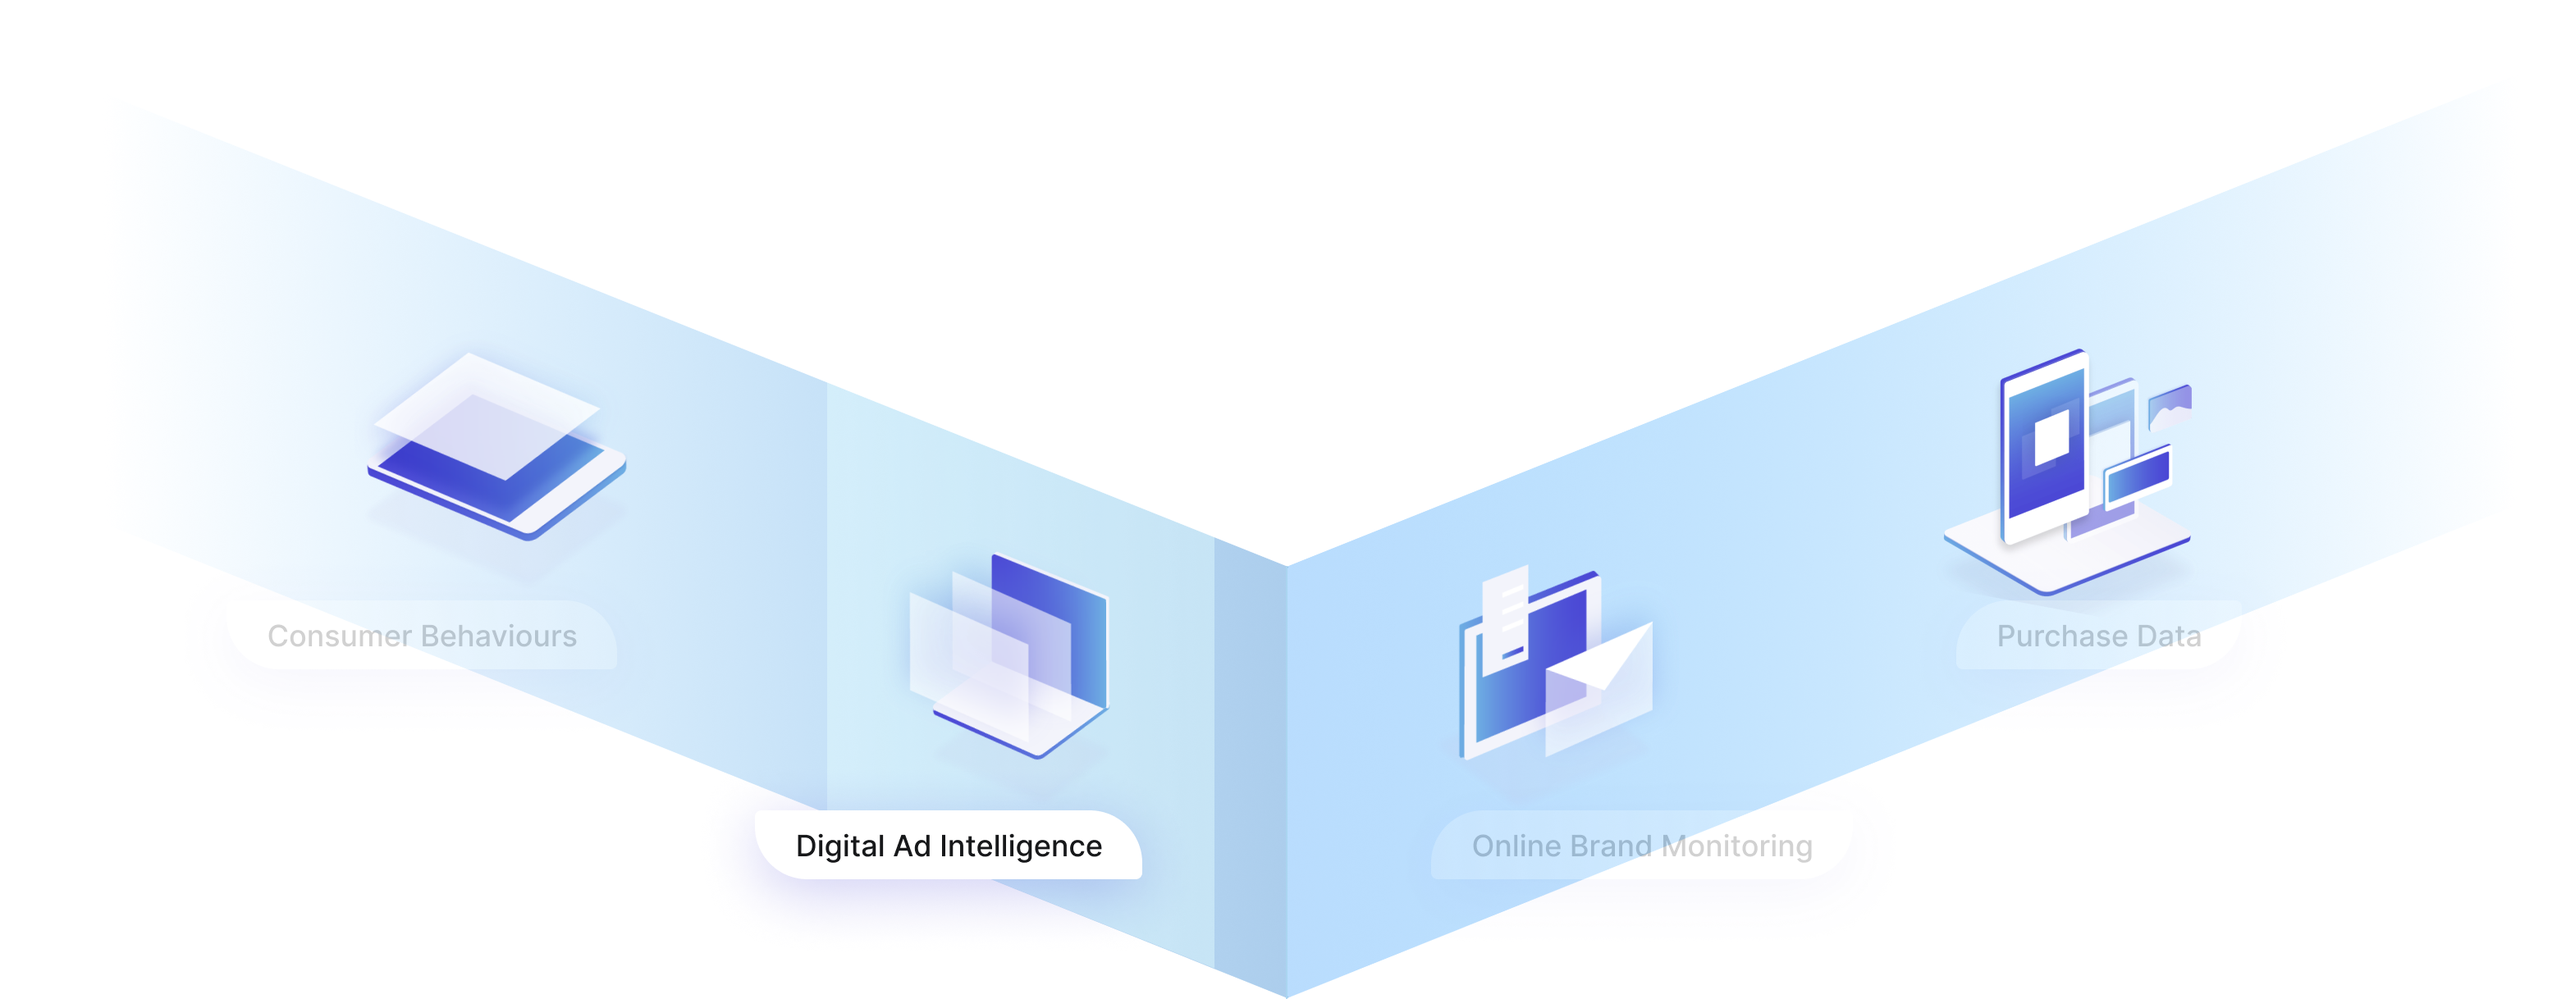
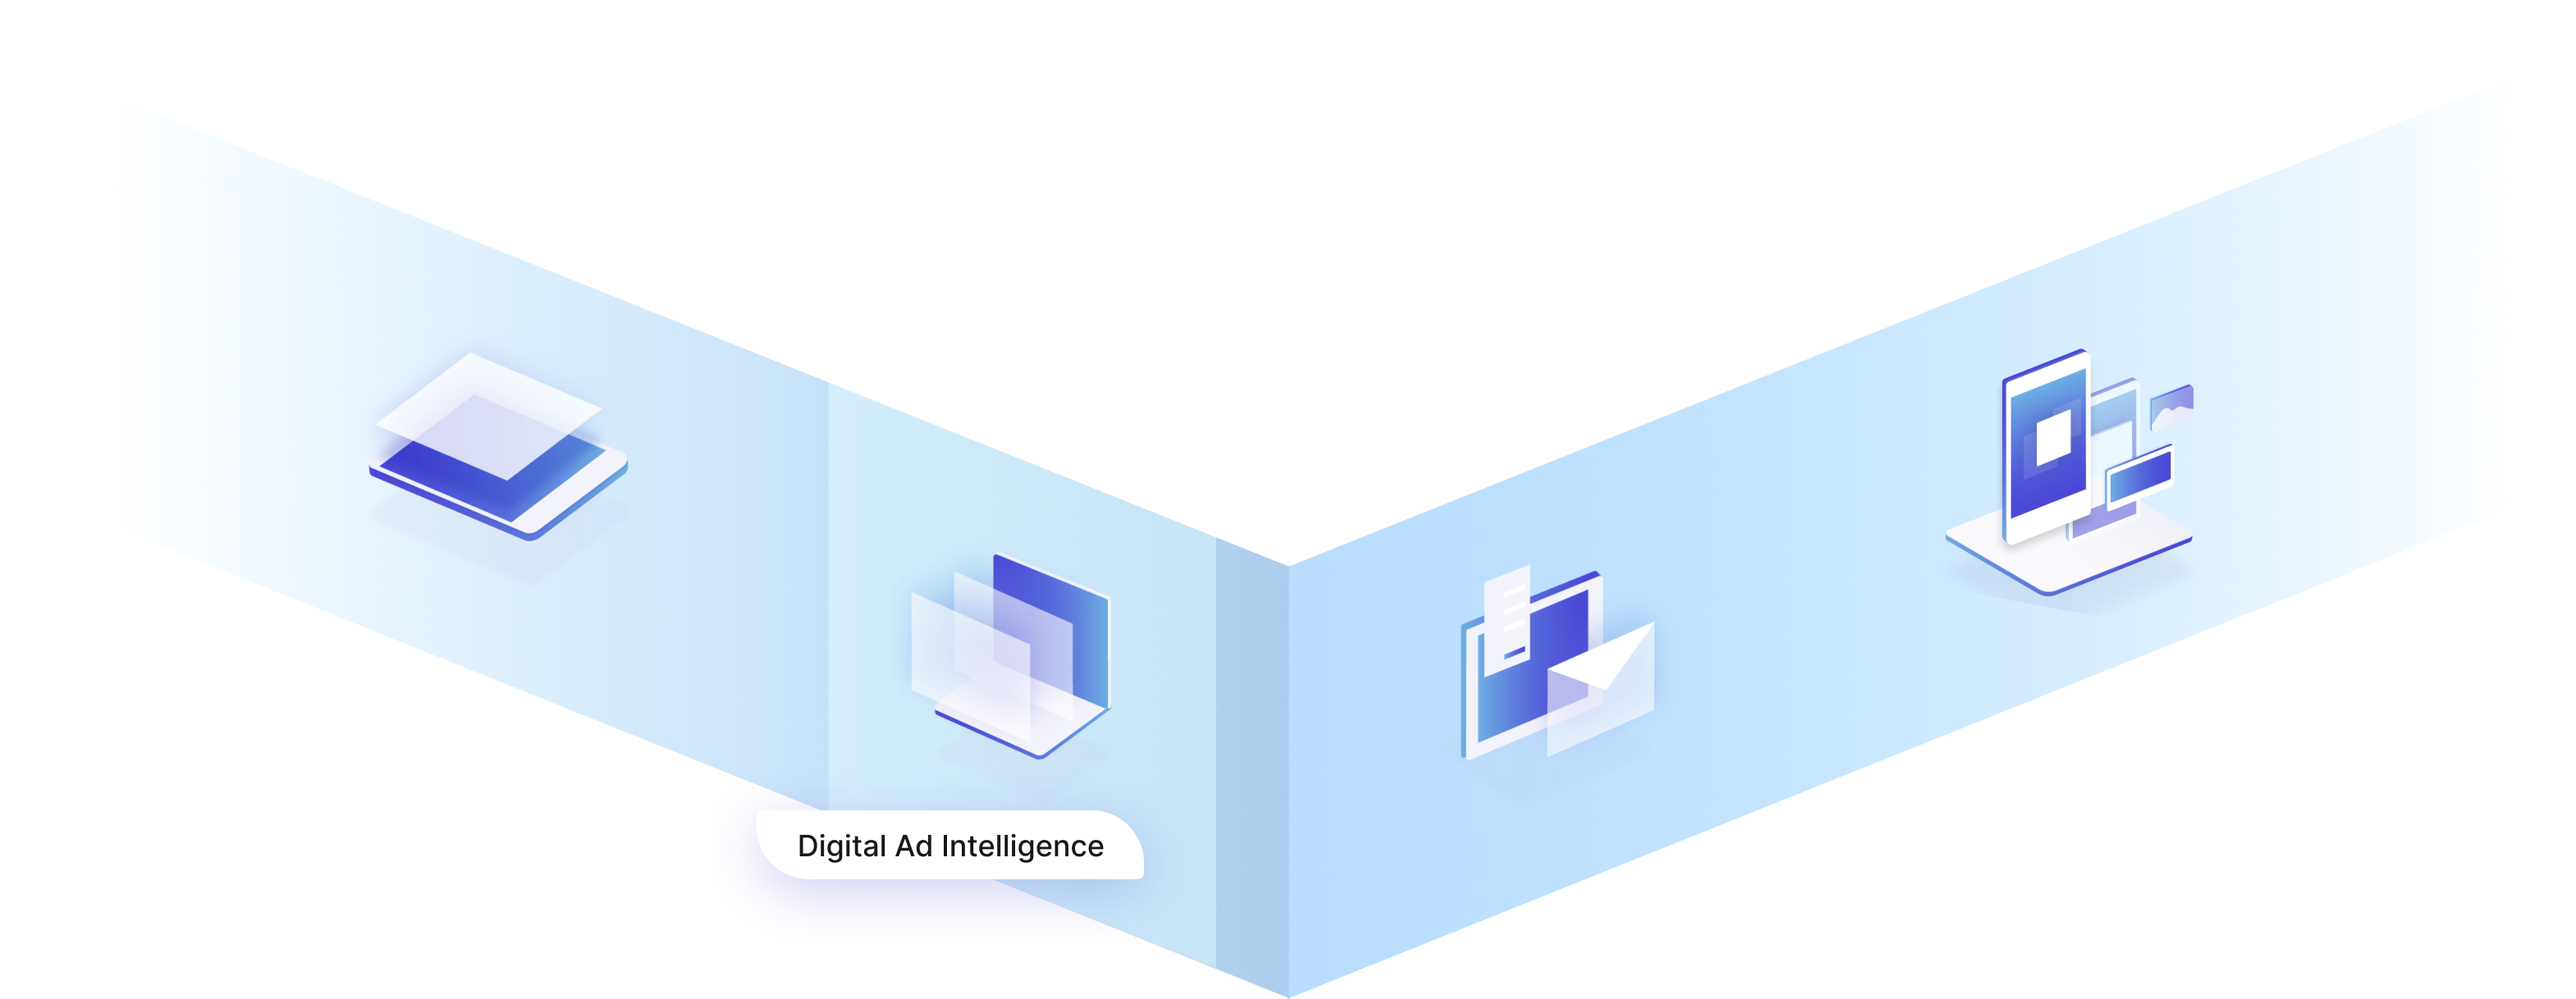
hovered menu

diff --git a/demos/bsc-hero/index.html b/demos/bsc-hero/index.html
@@ -17,7 +17,7 @@
                 <h1>Digital Intelligence at Scale</h1>
                 <h2>Millions measured daily. Billions of online transactions.</h2>
                 <p>Don’t settle for outdated research technology when you can tap on the most complete view<br>of the digital consumer. BIScience sets a new bar and provides the deepest digital intelligence<br>to market research companies, brands, publishers, retailers, and investment professionals</p>
-                <img src="images/alt3.png" style="margin-top: -20vh; z-index: 100; position: relative;" width="100%">
+                <img src="images/alt4.png" style="left:0; bottom: 0; z-index: 100; position: absolute;" width="100%">
 
                 <!--Next particle-->
                 <img id="map" src="images/bg.png" data-particle-gap="5" data-mouse-force="-30" class="next-particle">
